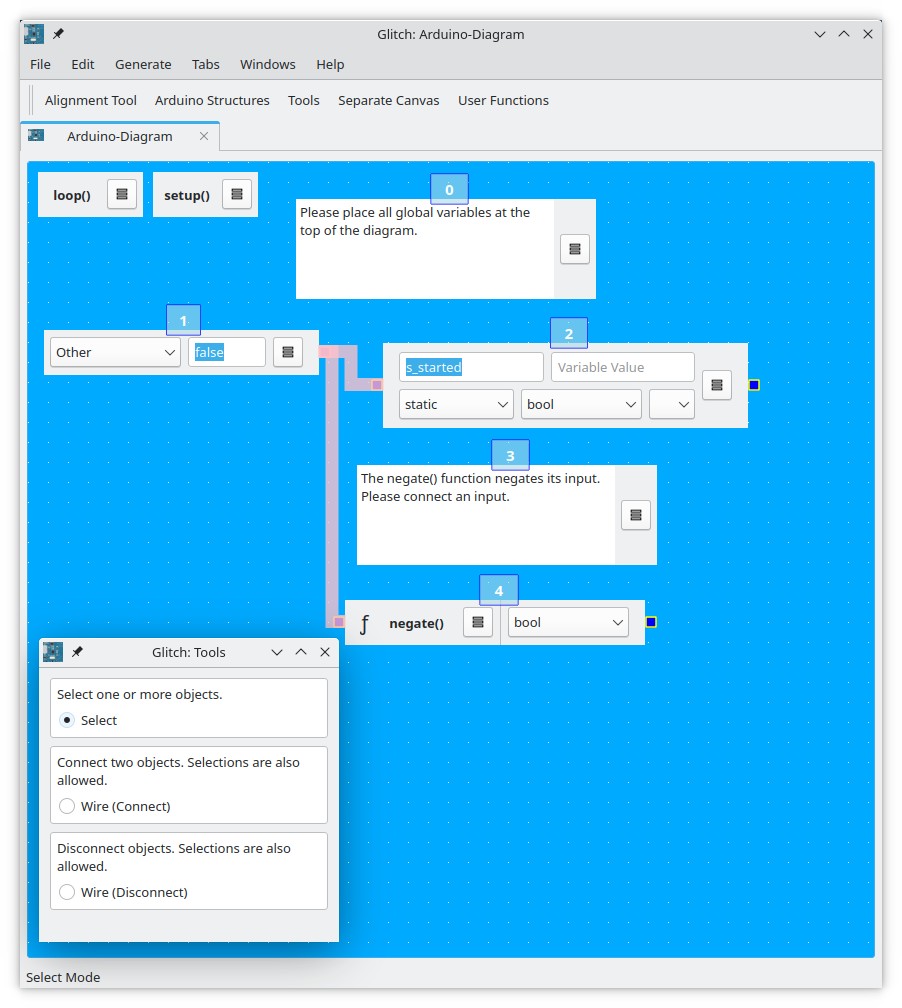
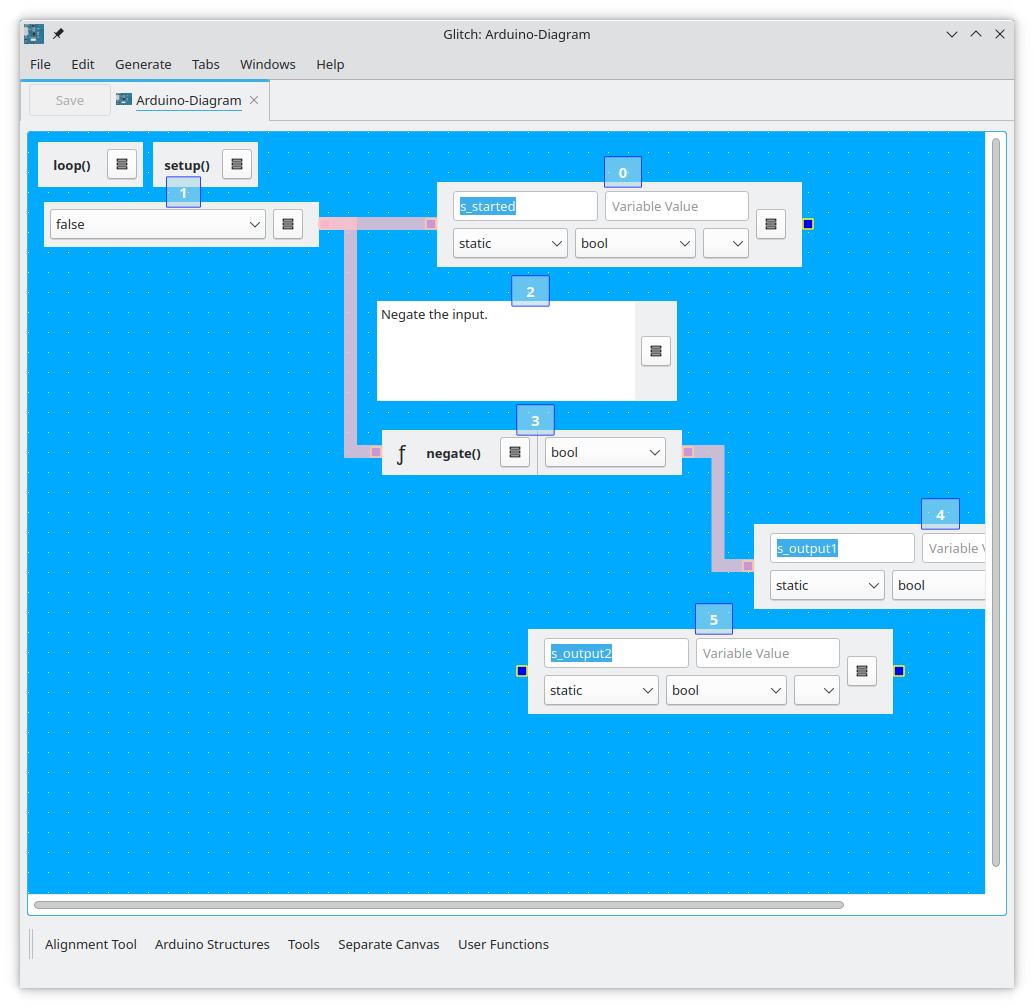
Wiring.

diff --git a/Source/glitch-wire.cc b/Source/glitch-wire.cc
@@ -145,8 +145,8 @@ void glitch_wire::paint
 	  m_boundingRect = points.boundingRect();
 	  painter->drawPolyline(points);
 	}
-      else if(m_leftProxy->size().width() + m_leftProxy->y() >=
-	      m_rightProxy->y())
+      else if(m_leftProxy->size().width() + m_leftProxy->x() >=
+	      m_rightProxy->x())
 	{
 	  QPen pen;
 
@@ -156,9 +156,32 @@ void glitch_wire::paint
 	  painter->setPen(pen);
 
 	  QPolygonF points;
+	  const auto x1 = m_leftProxy->pos().x() + m_leftProxy->size().width();
+	  const auto xd = m_rightProxy->pos().x() - x1;
 	  const auto yd = qAbs
 	    (m_leftProxy->size().height() / 2.0 + m_leftProxy->y() -
 	     m_rightProxy->size().height() / 2.0 - m_rightProxy->y()) / 2.0;
+
+	  points << QPointF(x1 + 6.0,
+			    m_leftProxy->pos().y() +
+			    m_leftProxy->size().height() / 2.0 - 1.0)
+		 << QPointF(x1 + 26.0,
+			    m_leftProxy->pos().y() +
+			    m_leftProxy->size().height() / 2.0 - 1.0)
+		 << QPointF(x1 + 26.0,
+			    m_leftProxy->pos().y() +
+			    m_leftProxy->size().height() / 2.0 - 1.0 + yd)
+		 << QPointF(x1 + xd - 26.0,
+			    m_leftProxy->pos().y() +
+			    m_leftProxy->size().height() / 2.0 - 1.0 + yd)
+		 << QPointF(x1 + xd - 26.0,
+			    m_rightProxy->pos().y() +
+			    m_rightProxy->size().height() / 2.0 - 1.0)
+		 << QPointF(x1 + xd - 6.0,
+			    m_rightProxy->pos().y() +
+			    m_rightProxy->size().height() / 2.0 - 1.0);
+	  m_boundingRect = points.boundingRect();
+	  painter->drawPolyline(points);
 	}
     }
 }
